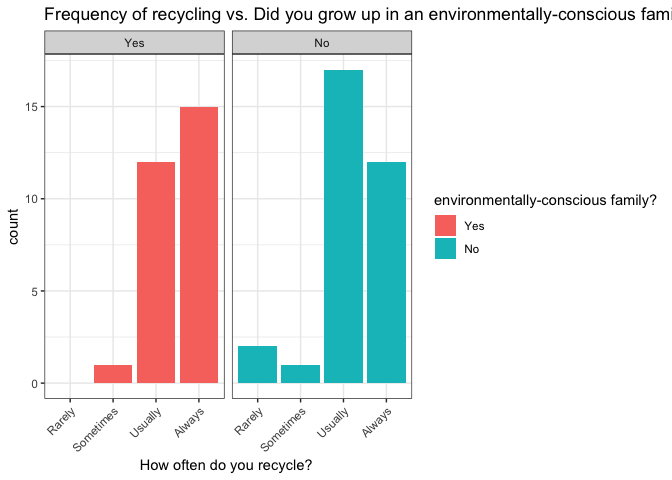
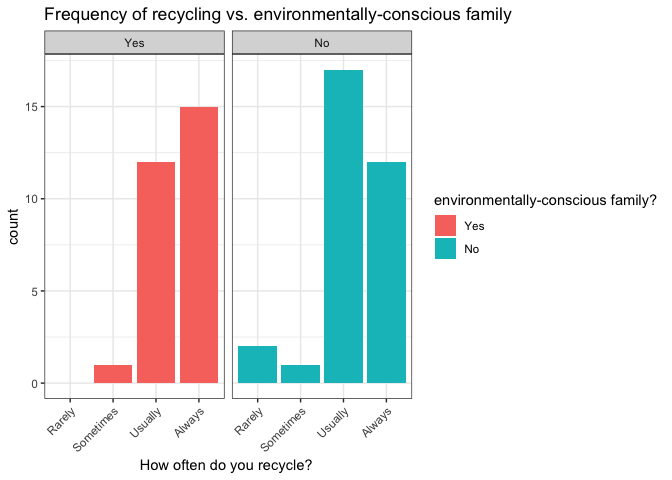
Shorten plot title; add dependencies

Changed region(s): [[0.375, 0.0, 1.0, 0.0625]]

diff --git a/Milestone2/Milestone2_EDA.md b/Milestone2/Milestone2_EDA.md
@@ -3,17 +3,20 @@ Milestone2\_EDA
 Wilson D., Marcelle C.
 4/5/2019
 
-This dataset is aimed to answer the question "Does a person’s frequency of recycling influence her/his opinion and attitudes towards the importance of sustainability?". The description of columns as follows:
+This dataset is aimed to answer the question “Does a person’s frequency
+of recycling influence her/his opinion and attitudes towards the
+importance of sustainability?”. The description of columns as follows:
 
--   `Q1_1`: How important is being environmentally sustainable to you on a scale from 1-10?
--   `Q2`: How often do you generally recycle?
--   `Q3`: What is your age group?
--   `Q4`: Did you grow up in an environmentally-conscious family?
--   `Q5`: Will you watch the video?
--   `Q6_1`: After watching this video about recycling, how important is sustainability to you on a self-ranked scale from 1-10 scale?
+  - `Q1_1`: How important is being environmentally sustainable to you on
+    a scale from 1-10?
+  - `Q2`: How often do you generally recycle?
+  - `Q3`: What is your age group?
+  - `Q4`: Did you grow up in an environmentally-conscious family?
+  - `Q5`: Will you watch the video?
+  - `Q6_1`: After watching this video about recycling, how important is
+    sustainability to you on a self-ranked scale from 1-10 scale?
 
-Load Data
-=========
+# Load Data
 
 ``` r
 #tidy data and give correct data type
@@ -55,21 +58,33 @@ summary(tidy_data)
     ##  NA's   :9
 
 > Analyzing the summary table, we noticed:
->
-> **Q1\_1: How important is being environmentally sustainable to you on a scale from 1-10?**:
->
+> 
+> **Q1\_1: How important is being environmentally sustainable to you on
+> a scale from 1-10?**:
+> 
 > **Q2: How often do you generally recycle?**:
->
-> **Q3: What is your age group?**: 60% of the participants are from the younger groups, having 20-29 years old. We had a considerable amount of people with 40+, but only 5% of the respondents are 35-39 years old.
->
-> **Q4: Did you grow up in an environmentally-conscious family?**: 46.7% of the respondents grow up in an environmentally-conscious family.
->
-> **Q5: Will you watch the video?**: Only 63% of the respondents confirmed that they watched the video.
->
-> **Q6\_1: After watching this video about recycling, how important is sustainability to you on a self-ranked scale from 1-10 scale?**: The self rank about sustainability importance after watching the video had a slightly higher mean and median than the first one (9 and 8.1 vs. 8 and 7.8, respectively). However, some people who didn't watch the video answered the last question, since we had 15 respondents who said on Q5 that they passed the video, and only 9 participants answered NA to Q6\_1.
+> 
+> **Q3: What is your age group?**: 60% of the participants are from the
+> younger groups, having 20-29 years old. We had a considerable amount
+> of people with 40+, but only 5% of the respondents are 35-39 years
+> old.
+> 
+> **Q4: Did you grow up in an environmentally-conscious family?**: 46.7%
+> of the respondents grow up in an environmentally-conscious family.
+> 
+> **Q5: Will you watch the video?**: Only 63% of the respondents
+> confirmed that they watched the video.
+> 
+> **Q6\_1: After watching this video about recycling, how important is
+> sustainability to you on a self-ranked scale from 1-10 scale?**: The
+> self rank about sustainability importance after watching the video had
+> a slightly higher mean and median than the first one (9 and 8.1 vs. 8
+> and 7.8, respectively). However, some people who didn’t watch the
+> video answered the last question, since we had 15 respondents who said
+> on Q5 that they passed the video, and only 9 participants answered NA
+> to Q6\_1.
 
-EDA
-===
+# EDA
 
 ``` r
 tidy_data %>% 
@@ -78,14 +93,18 @@ tidy_data %>%
   facet_grid(~Q4) +
   theme_bw() +
   labs(x = "How often do you recycle? ",
-       title = "Frequency of recycling vs. Did you grow up in an environmentally-conscious family?") +
+       title = "Frequency of recycling vs. environmentally-conscious family") +
   scale_fill_discrete(name = "environmentally-conscious family?") +
   theme(axis.text.x = element_text(angle = 45, hjust = 1))
 ```
 
-![](Milestone2_EDA_files/imgs/plot%20family%20vs.%20frequency-1.png)
+![](Milestone2_EDA_files/imgs/plot%20family%20vs.%20frequency-1.png)<!-- -->
 
-> As we can see from the above plot, most of our respondent have a good recycling habit whether or not they live in a environmentally-consicous family. However, if one respondent did not grow up in an environmentally-conscious family then he/she may do not recycle at all.
+> As we can see from the above plot, most of our respondent have a good
+> recycling habit whether or not they live in a
+> environmentally-consicous family. However, if one respondent did not
+> grow up in an environmentally-conscious family then he/she may do not
+> recycle at all.
 
 ``` r
 qplot(tidy_data$Q3, tidy_data$Q1_1, geom="boxplot") +
@@ -99,6 +118,15 @@ qplot(tidy_data$Q3, tidy_data$Q1_1, geom="boxplot") +
        axis.title = element_text(size = 13))
 ```
 
-![](Milestone2_EDA_files/imgs/plot%20age%20group%20vs.%20sustainability%20importance%20before%20watching%20the%20video-1.png)
+![](Milestone2_EDA_files/imgs/plot%20age%20group%20vs.%20sustainability%20importance%20before%20watching%20the%20video-1.png)<!-- -->
 
-> Analyzing the boxplots above is easy to see that older people (`35-39` and `40+` groups) consider sustainability more important than younger groups, having a higher mean (~9 in a scale from 1-10) and narrower range. Additionaly, the other 3 groups (`20-24`, `25-29` and `30-34`) have one outlier each, where at least one respondent of each of these groups evaluated sustainability with a considerable lower importance in comparison with the other participants from their respective group. However, it's important to take into account that we have fewer responses from the second oldest age group, which can distort the analysis.
+> Analyzing the boxplots above is easy to see that older people (`35-39`
+> and `40+` groups) consider sustainability more important than younger
+> groups, having a higher mean (~9 in a scale from 1-10) and narrower
+> range. Additionaly, the other 3 groups (`20-24`, `25-29` and `30-34`)
+> have one outlier each, where at least one respondent of each of these
+> groups evaluated sustainability with a considerable lower importance
+> in comparison with the other participants from their respective group.
+> However, it’s important to take into account that we have fewer
+> responses from the second oldest age group, which can distort the
+> analysis.

diff --git a/README.md b/README.md
@@ -1,5 +1,7 @@
 # Sustainability Survey
 
+![](images/green_is_a_trend.png)
+
 ### Contributors
 
 - [Heather Van Tassel](https://github.com/heathervant)
@@ -17,4 +19,8 @@
 ||[EDA on private repo](https://github.ubc.ca/MDS-2018-19/Sustainable_Survey/blob/master/Milestone2/Milestone2_EDA.md)|
 ||[EDA on `Github.com` repo](https://github.com/UBC-MDS/Sustainability_Survey/blob/master/Milestone2/Milestone2_EDA.md)|
 
-![](https://raw.githubusercontent.com/UBC-MDS/Sustainability_Survey/master/images/green_is_a_trend.png)
+### Dependencies
+
+  - `R` version 3.5.1
+  - `tidyverse` version 1.2.1
+
